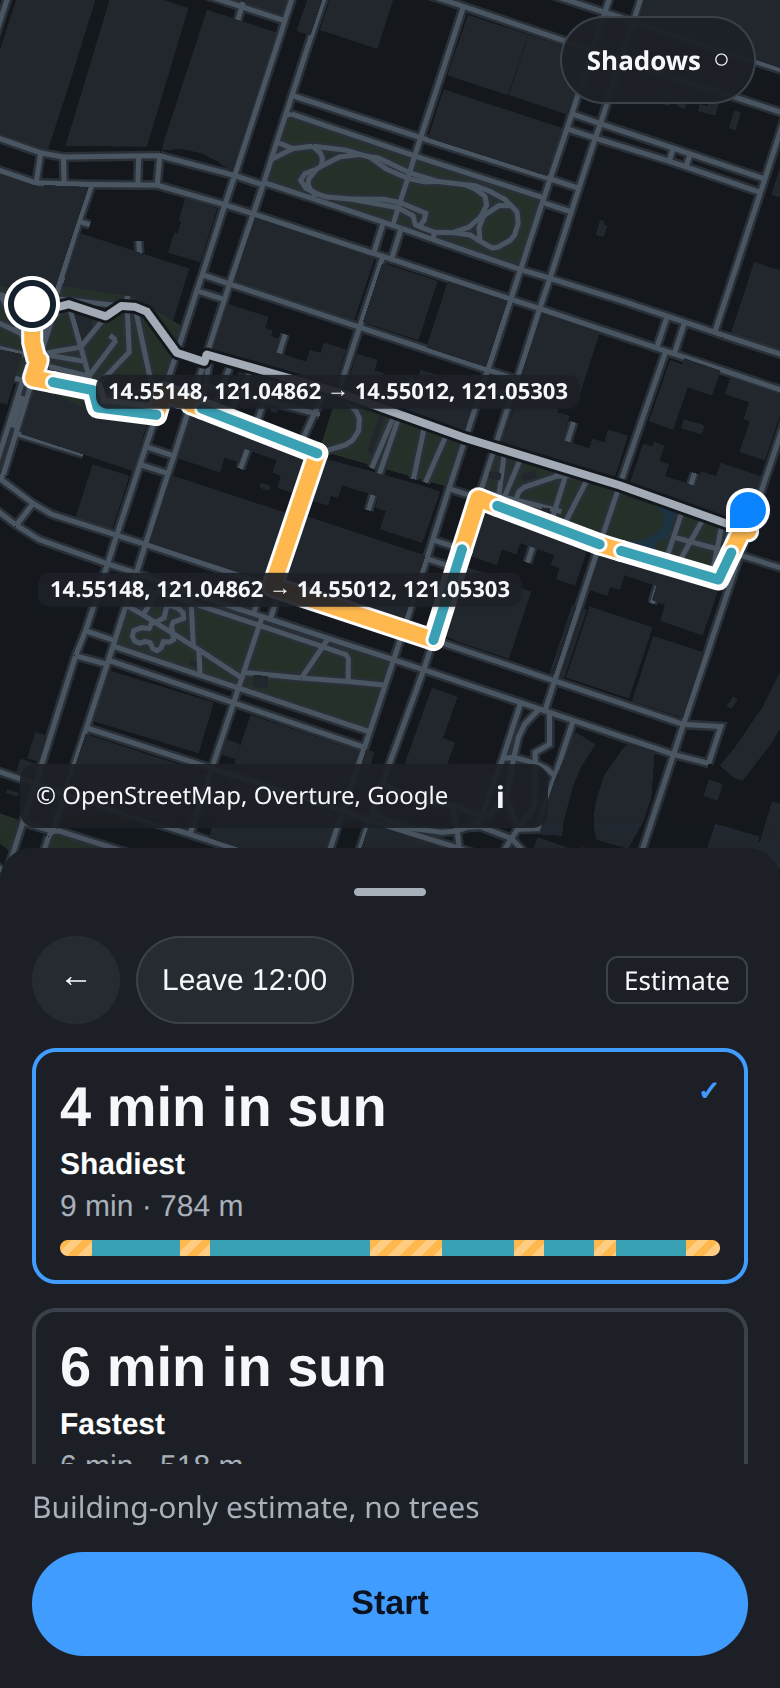
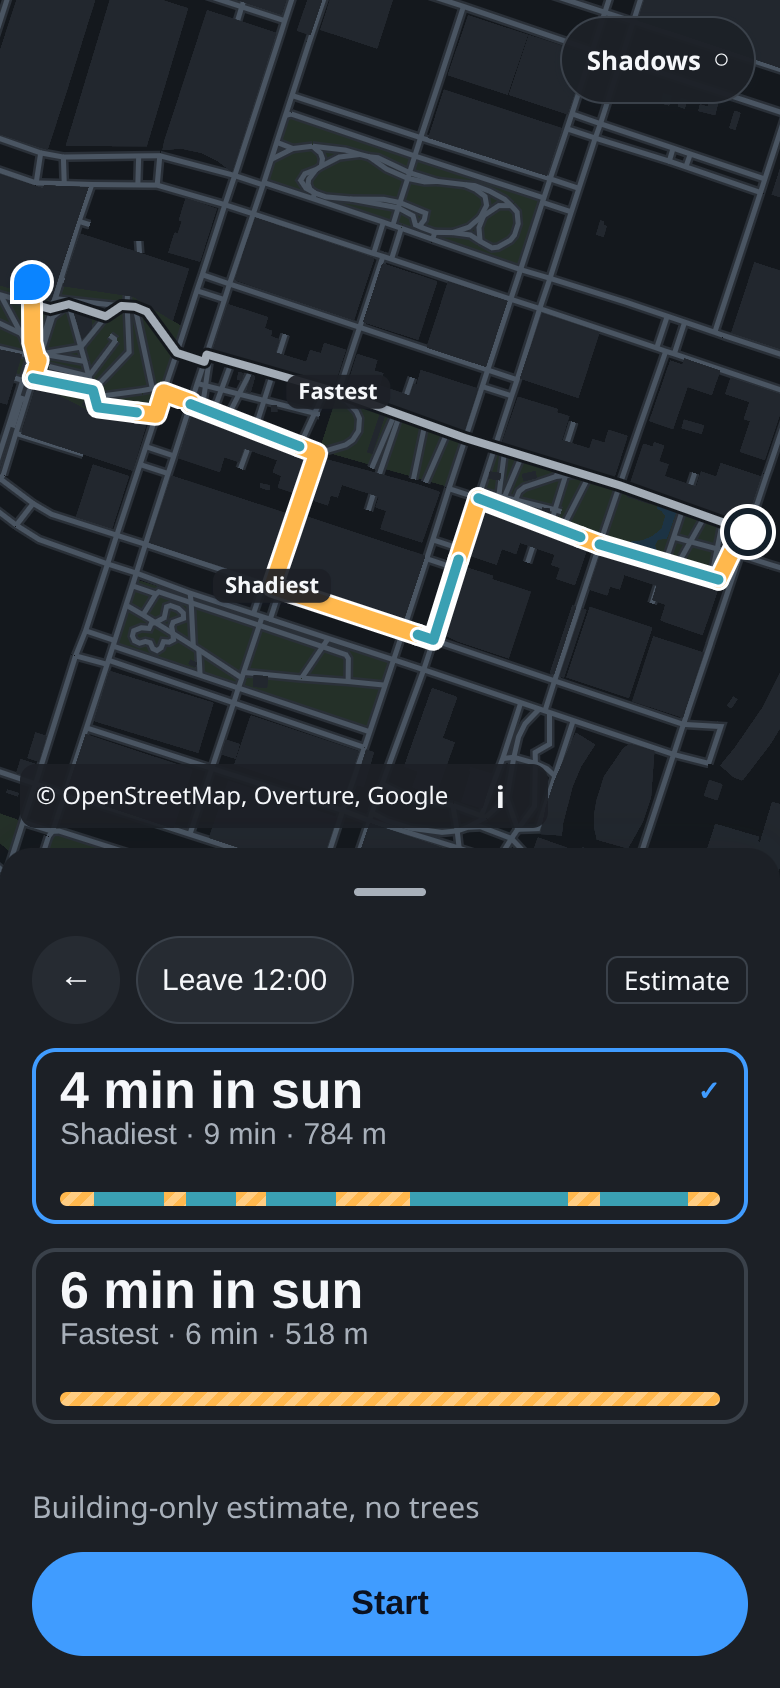
Fix outside-hours card titles and fresh capture preview
When shade is unavailable, skip merging identical routes and title the fastest card Fastest walk before any merge note. Capture builds with VITE_CAPTURE, serves vite preview on a dedicated strict port, and checks build-sha.txt. Desktop compare panels shrink to content, in-route status can wrap, and route card shade strips fit in 88px. Refresh all phone and desktop screenshots from the production preview.

diff --git a/apps/web/src/ui/styles.ts b/apps/web/src/ui/styles.ts
@@ -181,6 +181,24 @@ export const UI_STYLES = `
   .sheet-grabber {
     display: none;
   }
+
+  .shadeway-sheet[data-screen='compare'] .sheet-body,
+  .shadeway-sheet[data-screen='in-route'] .sheet-body {
+    flex: 0 1 auto;
+    overflow: visible;
+  }
+
+  .compare-screen,
+  .in-route-screen {
+    flex: 0 1 auto;
+    min-height: auto;
+  }
+
+  .compare-screen__scroll {
+    flex: 0 1 auto;
+    min-height: auto;
+    overflow: visible;
+  }
 }
 
 .sheet-body {
@@ -351,7 +369,7 @@ export const UI_STYLES = `
   box-sizing: border-box;
   border-radius: var(--radius-card);
   border: 2px solid var(--color-border);
-  padding: var(--space-2) var(--space-3);
+  padding: 6px var(--space-3) 7px;
   background: var(--color-surface);
   min-height: 88px;
   height: 88px;
@@ -361,7 +379,7 @@ export const UI_STYLES = `
   overflow: hidden;
   display: flex;
   flex-direction: column;
-  gap: 2px;
+  gap: 1px;
 }
 
 .route-card[aria-checked='true'] {
@@ -369,11 +387,12 @@ export const UI_STYLES = `
 }
 
 .route-card__sun {
-  font-size: var(--text-28);
+  font-size: 26px;
   font-weight: 600;
   color: var(--color-ink);
   margin: 0;
-  line-height: 1.05;
+  line-height: 1;
+  flex-shrink: 0;
 }
 
 .route-card__sun--muted {
@@ -421,7 +440,7 @@ export const UI_STYLES = `
 .shade-strip {
   display: flex;
   width: 100%;
-  height: 8px;
+  height: 7px;
   border-radius: 6px;
   overflow: hidden;
   margin-top: auto;
@@ -476,12 +495,8 @@ export const UI_STYLES = `
   margin: 0;
   font-size: var(--text-15);
   color: var(--color-text-secondary);
-}
-
-@media (min-width: 900px) {
-  .in-route-screen__status {
-    white-space: nowrap;
-  }
+  line-height: 1.35;
+  max-width: 32ch;
 }
 
 .in-route-screen__sun {

diff --git a/apps/web/src/ui/compare.test.ts b/apps/web/src/ui/compare.test.ts
@@ -1,0 +1,50 @@
+// @vitest-environment happy-dom
+import { describe, expect, it } from "vitest";
+import { COPY } from "./copy";
+import { compareCardTitle } from "./screens/compare";
+import type { RouteCardModel } from "./types";
+
+function card(overrides: Partial<RouteCardModel> & Pick<RouteCardModel, "weight">): RouteCardModel {
+  return {
+    totalMinutes: 6,
+    sunMinutes: null,
+    segments: [],
+    confidence: "Estimate",
+    geometry: [
+      [121.05, 14.55],
+      [121.051, 14.551],
+    ],
+    distanceM: 518,
+    edgeKey: "1",
+    shadeUnavailable: true,
+    ...overrides,
+  };
+}
+
+describe("compareCardTitle", () => {
+  it("uses Fastest walk when shade is unavailable even if routes were identical", () => {
+    expect(
+      compareCardTitle(
+        card({
+          weight: "fastest",
+          note: COPY.shadiestAndFastest,
+          shadeUnavailable: true,
+        }),
+      ),
+    ).toBe(COPY.fastestWalk);
+    expect(compareCardTitle(card({ weight: "shadiest", shadeUnavailable: true }))).toBe(COPY.shadiest);
+  });
+
+  it("still merges titles only when shade is available", () => {
+    expect(
+      compareCardTitle(
+        card({
+          weight: "fastest",
+          shadeUnavailable: false,
+          sunMinutes: 4,
+          note: COPY.shadiestAndFastest,
+        }),
+      ),
+    ).toBe(COPY.shadiestAndFastest);
+  });
+});

diff --git a/apps/web/src/ui/route-model.test.ts b/apps/web/src/ui/route-model.test.ts
@@ -95,6 +95,22 @@ describe("route shade strip", () => {
     expect(cards.every((card) => card.shadeUnavailable)).toBe(true);
   });
 
+  it("does not merge identical walks when shade is unavailable", () => {
+    const tiles = REFERENCE_DAYS.map((day) => tile(day, [2], [0]));
+    const cards = cardsFromResults(
+      {
+        fastest: result("fastest", [2]),
+        balanced: result("balanced", [2]),
+        shadiest: result("shadiest", [2]),
+      },
+      graph,
+      tiles,
+      { shadeCoverageUnavailable: true },
+    );
+    expect(cards.length).toBe(2);
+    expect(cards.some((card) => card.note === COPY.shadiestAndFastest)).toBe(false);
+  });
+
   it("says so when the shadiest walk is the fastest walk", () => {
     const tiles = REFERENCE_DAYS.map((day) => tile(day, [2], [0]));
     const same = cardsFromResults(

diff --git a/apps/web/src/ui/screens/compare.ts b/apps/web/src/ui/screens/compare.ts
@@ -180,12 +180,18 @@ function renderRouteCard(
   return card;
 }
 
-function cardTitle(route: RouteCardModel): string {
+export function compareCardTitle(route: RouteCardModel): string {
+  if (route.shadeUnavailable) {
+    return route.weight === "fastest" ? COPY.fastestWalk : COPY.shadiest;
+  }
   if (route.note === COPY.availableRoute) return COPY.availableRoute;
   if (route.note === COPY.shadiestAndFastest) return COPY.shadiestAndFastest;
   if (route.weight === "shadiest") return COPY.shadiest;
-  if (route.weight === "fastest" && route.shadeUnavailable) return COPY.fastestWalk;
   return COPY.fastest;
+}
+
+function cardTitle(route: RouteCardModel): string {
+  return compareCardTitle(route);
 }
 
 export function moveRouteSelection(state: UiState, direction: "next" | "prev"): RouteWeight | null {

diff --git a/apps/web/src/ui/route-model.ts b/apps/web/src/ui/route-model.ts
@@ -63,7 +63,8 @@ function noteCards(cards: RouteCardModel[], same: boolean): RouteCardModel[] {
   if (cards.length === 1) {
     return cards.map((card) => ({ ...card, note: COPY.availableRoute }));
   }
-  if (same && cards.length >= 2) {
+  const shadeUnavailable = cards.some((card) => card.shadeUnavailable);
+  if (same && cards.length >= 2 && !shadeUnavailable) {
     const merged = cards.find((card) => card.weight === "shadiest") ?? cards[0];
     if (!merged) return cards;
     return [{ ...merged, note: COPY.shadiestAndFastest }];

diff --git a/apps/web/src/ui/app.ts b/apps/web/src/ui/app.ts
@@ -499,7 +499,8 @@ export function createUiApp(
       const slot = snapToNowSlot(manilaNowMinutes());
       setState({ places: pilot.places, slot, departureIsNow: true, status: "normal", screen: "search" });
       document.documentElement.dataset.places = String(pilot.places.length);
-      if (import.meta.env.DEV) {
+      const harness = import.meta.env.DEV || import.meta.env.VITE_CAPTURE === "1";
+      if (harness) {
         window.__shadeway = {
           places: pilot.places,
           pick(at) {

diff --git a/apps/web/src/map/sheet-padding.test.ts b/apps/web/src/map/sheet-padding.test.ts
@@ -11,7 +11,7 @@ describe("sheet map padding", () => {
           media: query,
           addEventListener: () => {},
           removeEventListener: () => {},
-        }) as MediaQueryList,
+        }) as unknown as MediaQueryList,
     );
     document.documentElement.style.setProperty("--safe-top", "47px");
     const { computeSheetPadding } = await import("./sheet-padding");
